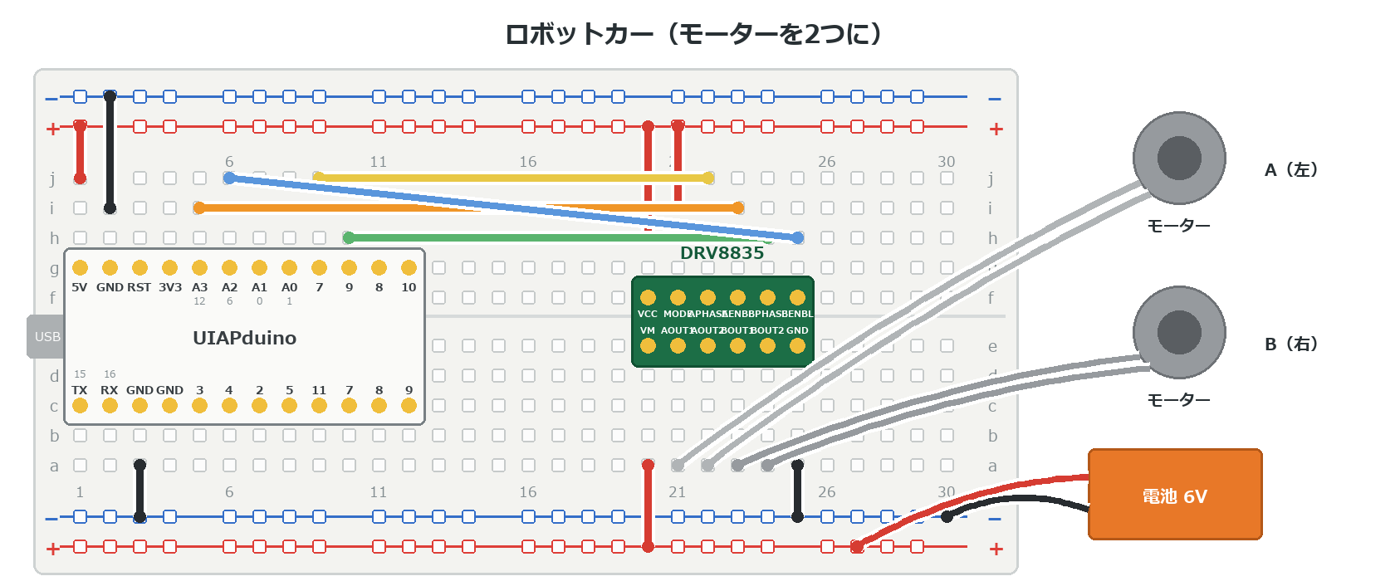
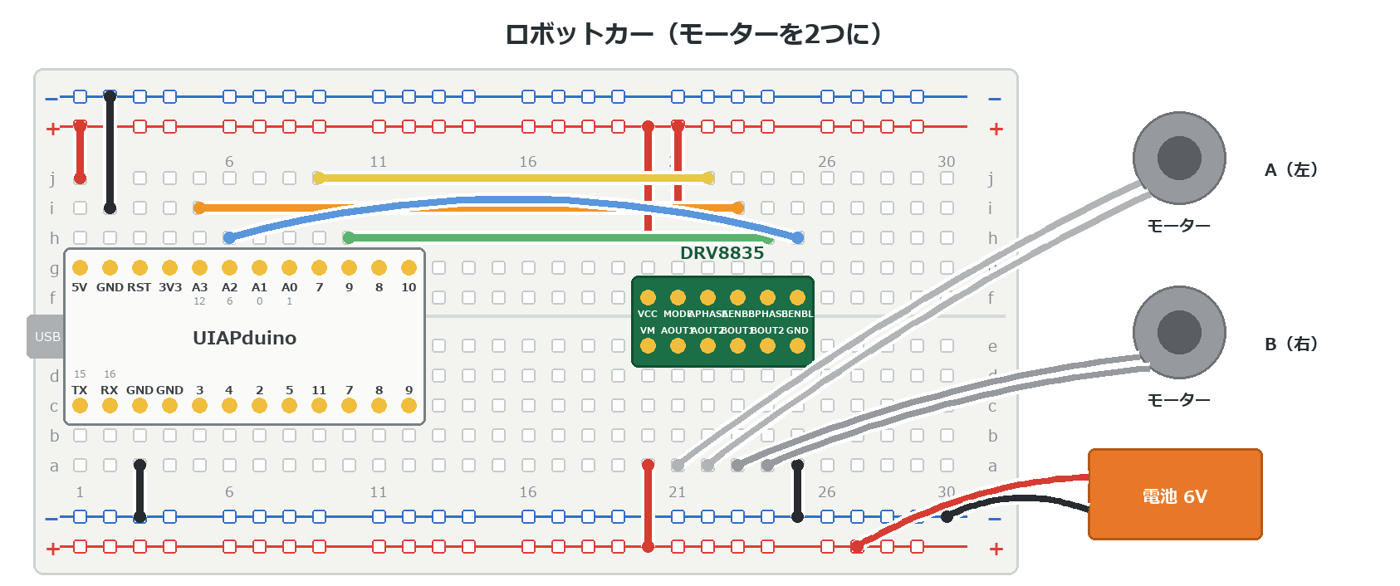
e5 の2モーター図で 青と緑が重なっていたのを直した
上半分で使える行は h・i・j の3本しかないのに、合図の線は4本ある。
青だけ緑と同じ h 行を通し、上へふくらませて重なりをよけた。
白いふちが出るので、またいでいることが見てわかる。

Changed region(s): [[0.1536, 0.2765, 0.5529, 0.43]]

diff --git a/tools/fig_bb_drv8835.py b/tools/fig_bb_drv8835.py
@@ -47,7 +47,9 @@ def draw(two):
     wire(d, (5, "i"), (DC + 3, "i"), ORANGE)     # 12番 → AENBL （速さ・PWM）
     if two:                                      # モーターB の合図
         wire(d, (10, "h"), (DC + 4, "h"), GREEN) # 9番  → BPHASE（向き）
-        wire(d, (6, "j"), (DC + 5, "h"), BLUE)   # 6番  → BENBL （速さ・PWM）
+        # 上に使える行（h・i・j）は3本ぶんしかないので、青だけ h 行を緑と
+        # 共有する。重ならないよう、上へふくらませてよける。
+        wire(d, (6, "h"), (DC + 5, "h"), BLUE, arc=-46)  # 6番 → BENBL（速さ・PWM）
 
     # 力の線
     wire(d, (DC, "a"), (DC, "+b"), RED)                # VM  → 下の ＋レール
